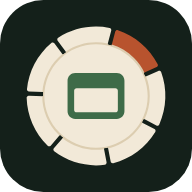
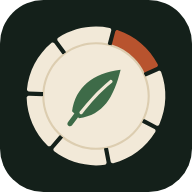
Let the 404 page follow the language of the URL and mark it current

Changed region(s): [[0.3438, 0.3438, 0.6562, 0.6562]]

diff --git a/web/public/index.html b/web/public/index.html
@@ -101,9 +101,27 @@
       <div class="pwa-install-panel">
         <header class="pwa-install-header">
           <span class="pwa-install-mark" aria-hidden="true">
-            <svg viewBox="0 0 32 32" focusable="false">
-              <circle cx="16" cy="16" r="12" />
-              <path d="M16 19c5-1 7-5 8-9-5 0-8 3-8 9Zm-2 4 5-9" />
+            <svg viewBox="0 0 1024 1024" focusable="false">
+              <path
+                class="plate"
+                fill="#F2E9D8"
+                d="M591.98 155.09C659.11 170.14 721.21 203.95 770.63 253.37C806.57 289.31 834.26 331.96 852.48 378.38L943.35 338.51C950.96 335.18 959.8 338.95 962.66 346.74C1005.82 464.46 1001.22 594.39 949.83 708.75C946.42 716.32 937.34 719.45 929.99 715.59L842.16 669.39C838.03 678.06 833.56 686.56 828.76 694.88L916.58 741.08C923.93 744.94 926.49 754.21 922.18 761.3C857.06 868.44 752.61 945.85 631.16 976.97C623.11 979.04 615 973.89 613.44 965.73L594.8 868.27C585.46 870.44 576.03 872.24 566.51 873.68L585.15 971.14C586.71 979.3 581.07 987.08 572.83 988.13C448.47 1004.02 322.82 970.62 222.76 895.07C216.13 890.06 215.1 880.51 220.51 874.2L285.08 798.86C277.58 792.92 270.28 786.67 263.22 780.12L198.64 855.46C193.23 861.77 183.63 862.21 177.68 856.42C87.71 769.1 35.49 650.04 32.17 524.7C31.95 516.4 38.78 509.64 47.07 509.93L146.24 513.45L146.24 512C146.24 502.85 146.58 493.73 147.26 484.66L48.09 481.15C39.8 480.85 33.46 473.62 34.27 465.36C46.45 340.57 106.98 225.51 202.9 144.77C209.25 139.43 218.8 140.54 223.74 147.22L282.82 226.94C290.33 220.91 298.05 215.19 305.96 209.79L246.88 130.07C241.94 123.4 243.64 113.94 250.61 109.42C355.76 41.14 483.46 16.72 606.39 41.37C614.53 43 619.61 51.17 617.47 59.19L591.98 155.09Z"
+              />
+              <path
+                class="today"
+                fill="#B8532E"
+                d="M619.57 163.42L645.31 66.59C647.44 58.56 655.9 54 663.78 56.63C782.72 96.27 881.43 180.88 938.8 292.36C942.6 299.75 939.39 308.8 931.78 312.14L840.03 352.39C818.18 307.47 787.33 267.53 749.41 235.02C711.49 202.52 667.29 178.15 619.57 163.42Z"
+              />
+              <path
+                class="divider"
+                fill="#DCCDB0"
+                d="M512 140C539.67 140 567.01 143.08 593.58 149.06L591.98 155.09C601.36 157.19 610.65 159.66 619.81 162.49L621.42 156.45C678.88 174.14 731.75 205.66 775.04 248.96C804.62 278.53 828.7 312.57 846.63 349.49L840.91 352C845.11 360.64 848.97 369.44 852.48 378.38L858.2 375.87C875.09 418.82 884 464.95 884 512C884 568 871.37 622.71 847.69 672.3L842.16 669.39C838.03 678.06 833.56 686.56 828.76 694.88L834.28 697.79C818.14 725.79 798.29 751.8 775.04 775.04C725.43 824.66 663.24 858.81 595.97 874.4L594.8 868.27C585.46 870.44 576.03 872.24 566.51 873.68L567.68 879.81C549.36 882.58 530.76 884 512 884C427.74 884 346.42 855.41 281.02 803.6L285.08 798.86C277.58 792.92 270.28 786.67 263.22 780.12L259.15 784.86C255.7 781.66 252.3 778.39 248.96 775.04C179.48 705.57 140.32 611.44 140 513.22L146.24 513.45L146.24 512C146.24 502.85 146.58 493.73 147.26 484.66L141.02 484.44C147.6 395.86 185.72 312.2 248.96 248.96C258.55 239.36 268.62 230.34 279.1 221.92L282.82 226.94C290.33 220.91 298.05 215.19 305.96 209.79L302.24 204.77C363.62 162.87 436.63 140 512 140ZM512 154.4C417.16 154.4 326.2 192.08 259.14 259.14C192.08 326.2 154.4 417.16 154.4 512C154.4 606.84 192.08 697.8 259.14 764.86C326.2 831.92 417.16 869.6 512 869.6C606.84 869.6 697.8 831.92 764.86 764.86C831.92 697.8 869.6 606.84 869.6 512C869.6 417.16 831.92 326.2 764.86 259.14C697.8 192.08 606.84 154.4 512 154.4Z"
+              />
+              <path
+                class="glyph"
+                fill="#3E6B48"
+                d="M394.4 665.6L388.06 659.26L346.4 714.8C340.44 722.75 329.15 724.36 321.2 718.4C313.25 712.44 311.64 701.15 317.6 693.2L360.8 635.6C361.32 634.91 361.88 634.27 362.47 633.67L346.4 617.6C370.4 449.6 490.4 353.6 682.4 329.6C634.4 521.6 562.4 641.6 394.4 665.6ZM417.7 634.32C474.49 563.23 534.49 491.23 622.38 420.06C627.27 416.09 628.02 408.91 624.05 404.02C620.09 399.13 612.91 398.38 608.02 402.35C518.31 475.17 458.31 547.17 399.9 620.08C395.96 624.99 396.76 632.17 401.68 636.1C406.59 640.03 413.77 639.24 417.7 634.32Z"
+              />
             </svg>
           </span>
           <button class="pwa-install-close" type="button" data-install-close aria-label="Schließen">

diff --git a/web/public/pwa-install.css b/web/public/pwa-install.css
@@ -108,17 +108,8 @@
   background: color-mix(in srgb, var(--shell-accent) 10%, transparent);
 }
 .pwa-install-mark svg {
-  width: 30px;
-  height: 30px;
-  fill: none;
-  stroke: currentColor;
-  stroke-width: 1.5;
-  stroke-linecap: round;
-  stroke-linejoin: round;
-}
-.pwa-install-mark svg path:first-of-type {
-  fill: currentColor;
-  stroke: none;
+  width: 34px;
+  height: 34px;
 }
 .pwa-install-close {
   width: 40px;

diff --git a/brand/README.md b/brand/README.md
@@ -8,7 +8,7 @@ Cards uses the Week Dial mark: a cream plate seen from above, its rim notched in
 
 See [`CREDITS.md`](CREDITS.md) for the generator, the note that no reuse license is granted for the artwork, and the font license.
 
-The web app (`web/public/`) uses the web app family of the same set. The demo site is a product page of the whole project, so it uses the organization family (plate with the herb leaf): `demo/site/week-dial-mark.svg` is the header, footer and recipe call to action mark, and `demo/site/favicon.svg`, `favicon.ico` and `apple-touch-icon.png` are `mealie-atelier-favicon.svg`, `mealie-atelier-favicon.ico` and `mealie-atelier-apple-touch-icon.png` from the masters. `scripts/generate-demo-site.mjs` copies them into the generated site; `icon-192.png` is not used there.
+The web app (`web/public/`) uses the organization family too, so its icons, favicon and install dialog mark show the same herb leaf as the logo inside the app. The demo site is a product page of the whole project, so it uses the organization family (plate with the herb leaf): `demo/site/week-dial-mark.svg` is the header, footer and recipe call to action mark, and `demo/site/favicon.svg`, `favicon.ico` and `apple-touch-icon.png` are `mealie-atelier-favicon.svg`, `mealie-atelier-favicon.ico` and `mealie-atelier-apple-touch-icon.png` from the masters. `scripts/generate-demo-site.mjs` copies them into the generated site; `icon-192.png` is not used there.
 
 Re-export the PNGs from the masters with the `render.sh` script of the masters repository (Chrome headless):
 
